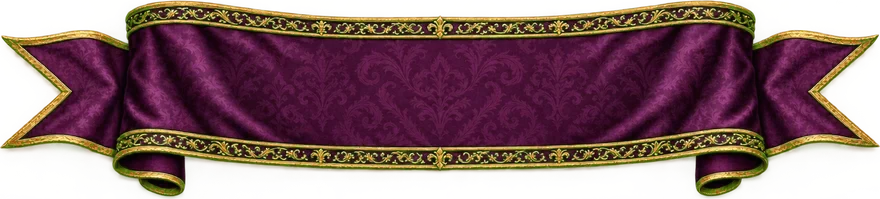
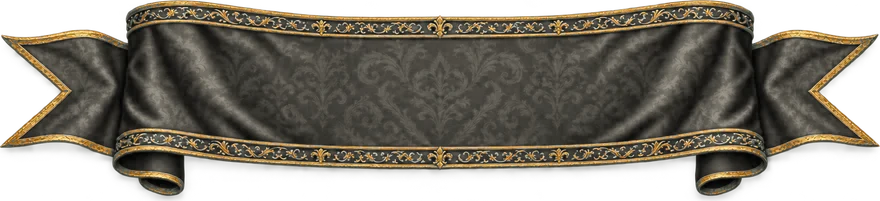
Faction colours in the interface: turquoise Tides rings, steel-grey Iron Clan ribbon, ribbons and primary buttons follow the faction at the screen

diff --git a/src/ui/styles.css b/src/ui/styles.css
@@ -84,6 +84,18 @@ html[data-faction='tides'] .gf::after { background: url('/assets/ui/corner_tides
 .rib.sands { --rib-img: url('/assets/ui/wstazka_sands.webp'); }
 .rib.swarm { --rib-img: url('/assets/ui/wstazka_swarm.webp'); }
 .rib.tides { --rib-img: url('/assets/ui/wstazka_tides.webp'); }
+/* A ribbon without a side: green, and in a game the colour of the faction at the screen. */
+.rib.auto { --rib-img: url('/assets/ui/wstazka_g.webp'); }
+html[data-faction='dawn'] .rib.auto { --rib-img: url('/assets/ui/wstazka_g.webp'); }
+html[data-faction='horde'] .rib.auto { --rib-img: url('/assets/ui/wstazka_r.webp'); }
+html[data-faction='frost'] .rib.auto { --rib-img: url('/assets/ui/wstazka_b.webp'); }
+html[data-faction='undead'] .rib.auto { --rib-img: url('/assets/ui/wstazka_p.webp'); }
+html[data-faction='herds'] .rib.auto { --rib-img: url('/assets/ui/wstazka_herds.webp'); }
+html[data-faction='clans'] .rib.auto { --rib-img: url('/assets/ui/wstazka_clans.webp'); }
+html[data-faction='free'] .rib.auto { --rib-img: url('/assets/ui/wstazka_free.webp'); }
+html[data-faction='sands'] .rib.auto { --rib-img: url('/assets/ui/wstazka_sands.webp'); }
+html[data-faction='swarm'] .rib.auto { --rib-img: url('/assets/ui/wstazka_swarm.webp'); }
+html[data-faction='tides'] .rib.auto { --rib-img: url('/assets/ui/wstazka_tides.webp'); }
 .rib-text { margin-top: -6px; padding: 0 6px; font-weight: 700; font-size: 20px; color: var(--cream); text-shadow: 0 2px 0 rgba(0, 0, 0, 0.6), 0 0 6px rgba(0, 0, 0, 0.5); white-space: nowrap; overflow: hidden; text-overflow: ellipsis; max-width: 100%; }
 .rib-text.long { font-size: 17px; }
 
@@ -128,6 +140,17 @@ html[data-faction='tides'] .gf::after { background: url('/assets/ui/corner_tides
 }
 .prim.r { background-image: url('/assets/ui/cloth_r.jpg'); }
 .prim.b { background-image: url('/assets/ui/cloth_b.jpg'); }
+/* In a game the primary buttons and the ribbons without a side of their own take the colour of the faction at the screen (html[data-faction], App.tsx). */
+html[data-faction='dawn'] .prim:not(.r):not(.b) { background-image: url('/assets/ui/cloth_g.jpg'); }
+html[data-faction='horde'] .prim:not(.r):not(.b) { background-image: url('/assets/ui/cloth_r.jpg'); }
+html[data-faction='frost'] .prim:not(.r):not(.b) { background-image: url('/assets/ui/cloth_b.jpg'); }
+html[data-faction='undead'] .prim:not(.r):not(.b) { background-image: url('/assets/ui/cloth_undead.jpg'); }
+html[data-faction='herds'] .prim:not(.r):not(.b) { background-image: url('/assets/ui/cloth_herds.jpg'); }
+html[data-faction='clans'] .prim:not(.r):not(.b) { background-image: url('/assets/ui/cloth_clans.jpg'); }
+html[data-faction='free'] .prim:not(.r):not(.b) { background-image: url('/assets/ui/cloth_free.jpg'); }
+html[data-faction='sands'] .prim:not(.r):not(.b) { background-image: url('/assets/ui/cloth_sands.jpg'); }
+html[data-faction='swarm'] .prim:not(.r):not(.b) { background-image: url('/assets/ui/cloth_swarm.jpg'); }
+html[data-faction='tides'] .prim:not(.r):not(.b) { background-image: url('/assets/ui/cloth_tides.jpg'); }
 .plate.btn { font-weight: 700; color: var(--ink); }
 .plate.btn.on { box-shadow: 0 0 0 2px #9ee4ff, 0 0 12px 3px rgba(158, 228, 255, 0.6), inset 0 0 16px rgba(120, 80, 20, 0.35); }
 /* Button sizes repeated across screens. */

diff --git a/src/ui/common.tsx b/src/ui/common.tsx
@@ -75,7 +75,7 @@ export const FACTION_RIBBON: Record<FactionId, string> = {
 };
 /** The ring round a portrait that belongs to a faction (the hero pickers of the setup screens): the colour of the faction, whatever seat it sits in. */
 export const FACTION_RING: Record<FactionId, string> = {
-  dawn: '#2C7048', horde: '#9A2226', herds: '#B8731E', undead: '#6A3E98', clans: '#8B8478', frost: '#3E8FB8', free: '#6E4B2E', sands: '#C79A1E', swarm: '#2A8A80', tides: '#D8695A',
+  dawn: '#2C7048', horde: '#9A2226', herds: '#B8731E', undead: '#6A3E98', clans: '#8B8478', frost: '#3E8FB8', free: '#6E4B2E', sands: '#C79A1E', swarm: '#2A8A80', tides: '#2BB3C0',
 };
 /** The ribbon (or ring) key of a team seat: the faction that sits there, not the seat itself (a Covenant player in the second seat does not get the Horde's red). */
 export const teamFaction = (state: unknown, team: Side | FactionId | 'draw' | null | undefined): Side | FactionId => (!team || team === 'draw' || team === 'neutral' ? 'neutral' : raceOf(state, team as TeamId));
@@ -138,8 +138,9 @@ export function Frame(props: {
 }
 
 /** Heraldic ribbon: a painted silk band with gold embroidery (Scenario), one colour per faction (green Przymierze, red Horda, blue neutral, purple for the next ones). */
-export function Ribbon({ side = 'dawn', children, style }: { side?: Side | FactionId; children: ReactNode; style?: CSSProperties }) {
-  const cls = side in FACTION_RIBBON ? FACTION_RIBBON[side as FactionId] : SIDE_RIBBON[side as Side];
+export function Ribbon({ side, children, style }: { side?: Side | FactionId; children: ReactNode; style?: CSSProperties }) {
+  // Without a side the ribbon follows the faction at the screen (css `.rib.auto`).
+  const cls = side === undefined ? 'auto' : side in FACTION_RIBBON ? FACTION_RIBBON[side as FactionId] : SIDE_RIBBON[side as Side];
   return (
     <div className={`rib ${cls}`} style={style}>
       <span className={`rib-text ${typeof children === 'string' && children.length > 16 ? 'long' : ''}`}>{children}</span>

diff --git a/src/i18n/en/changelog.ts b/src/i18n/en/changelog.ts
@@ -4,6 +4,8 @@ import { register } from '../translate';
 
 // In preparation
 register({
+  "Kolory frakcji w interfejsie: obwódki portretów Bractwa Przypływu są turkusowe (były łososiowe), wstęga Żelaznego Klanu jest stalowoszara (była fioletowa), a w grze wstęgi okien („Znaleziono skarb!”, skrzynia, nowy poziom, dziennik) i główne przyciski („Zakończ turę”, „Do ekwipunku”…) mają kolor frakcji gracza zamiast zawsze zielonego.":
+    "Faction colours in the interface: the portrait rings of the Brotherhood of the Tide are turquoise (they were salmon), the Iron Clan ribbon is steel grey (it was purple), and in a game the ribbons of windows (\"Treasure found!\", the chest, level-up, the log) and the main buttons (\"End turn\", \"To inventory\"…) take the colour of the player's faction instead of always green.",
   "Sefiran Plamisty na arenie jest większy: wąż był o połowę mniejszy od innych bohaterów i ginął na polu.":
     "Sefiran the Spotted is bigger on the arena: the snake was half the size of the other heroes and got lost on its hex.",
   "Wszystkie 19 postaci Żelaznego Klanu mają animowane sprite'y (stanie, chód, atak, śmierć, trafienie): Tan Żelaznobrody, Matka Run, Mosiężny Pająk, Niedźwiedź w Zbroi, Armata Klanów, Kolos Kuźni i pozostałe":

diff --git a/scripts/assets/cloth_tints.py b/scripts/assets/cloth_tints.py
@@ -1,0 +1,22 @@
+"""Paints the cloth of the primary buttons (`.prim`, ui/cloth_<faction>.jpg) for the factions that have none: the cloth of an original (cloth_g/r/b) turned to the hue
+of the faction, the same numbers as the ribbons (scripts/assets/ribbon_tints.py). Usage: python3 scripts/assets/cloth_tints.py"""
+import colorsys
+from PIL import Image
+
+D = 'public/assets/ui'
+# faction: (source cloth, target hue in degrees, saturation factor, value factor)
+TINTS = {'herds': ('r', 24, 1.0, 1.05), 'sands': ('r', 46, 0.9, 1.15), 'free': ('r', 20, 0.55, 0.75), 'swarm': ('g', 172, 1.0, 1.0), 'tides': ('b', 192, 1.0, 1.05),
+         'clans': ('r', 40, 0.14, 0.82), 'undead': ('b', 275, 0.95, 0.9)}
+SRC_HUE = {'g': 145, 'r': 355, 'b': 218}
+for fac, (src, hue, sat, val) in TINTS.items():
+    im = Image.open(f'{D}/cloth_{src}.jpg').convert('RGB')
+    out = []
+    for r, g, b in im.getdata():
+        h, s_, v = colorsys.rgb_to_hsv(r / 255, g / 255, b / 255)
+        h = ((h * 360 + hue - SRC_HUE[src]) % 360) / 360
+        r, g, b = (round(c * 255) for c in colorsys.hsv_to_rgb(h, min(1, s_ * sat), min(1, v * val)))
+        out.append((r, g, b))
+    t = Image.new('RGB', im.size)
+    t.putdata(out)
+    t.save(f'{D}/cloth_{fac}.jpg', quality=90)
+    print(fac, src)

diff --git a/scripts/assets/ribbon_tints.py b/scripts/assets/ribbon_tints.py
@@ -5,7 +5,7 @@ from PIL import Image
 
 D = 'public/assets/ui'
 # faction: (source ribbon, target hue of the cloth in degrees, saturation factor, value factor)
-TINTS = {'herds': ('r', 24, 1.0, 1.05), 'sands': ('r', 46, 0.9, 1.15), 'free': ('r', 20, 0.55, 0.75), 'swarm': ('g', 172, 1.0, 1.0), 'tides': ('b', 192, 1.0, 1.05), 'clans': ('p', 322, 1.0, 1.0)}
+TINTS = {'herds': ('r', 24, 1.0, 1.05), 'sands': ('r', 46, 0.9, 1.15), 'free': ('r', 20, 0.55, 0.75), 'swarm': ('g', 172, 1.0, 1.0), 'tides': ('b', 192, 1.0, 1.05), 'clans': ('r', 40, 0.14, 0.82)}
 
 for fac, (src, hue, sat, val) in TINTS.items():
     im = Image.open(f'{D}/wstazka_{src}.webp').convert('RGBA')

diff --git a/CHANGELOG.md b/CHANGELOG.md
@@ -6,6 +6,7 @@ Każdy wpis to jeden commit, a skrót commita stoi w nawiasie na końcu wpisu (c
 
 ## W przygotowaniu
 
+- Kolory frakcji w interfejsie: obwódki portretów Bractwa Przypływu są turkusowe (były łososiowe), wstęga Żelaznego Klanu jest stalowoszara (była fioletowa), a w grze wstęgi okien („Znaleziono skarb!”, skrzynia, nowy poziom, dziennik) i główne przyciski („Zakończ turę”, „Do ekwipunku”…) mają kolor frakcji gracza zamiast zawsze zielonego.
 - Sefiran Plamisty na arenie jest większy: wąż był o połowę mniejszy od innych bohaterów i ginął na polu.
 - Wszystkie 19 postaci Żelaznego Klanu mają animowane sprite'y (stanie, chód, atak, śmierć, trafienie): Tan Żelaznobrody, Matka Run, Mosiężny Pająk, Niedźwiedź w Zbroi, Armata Klanów, Kolos Kuźni i pozostałe
 - Żelazny Klan ma własną mapę i arenę: górską halę zamiast łąki, własny rewers kafli, twierdzę i skarbiec, kafle i obiekty w klimacie kamiennej twierdzy (kapliczka przodków, kopalnie, studnia, skrzynia, młyn), arenę na górskiej przełęczy z siedmioma rodzajami przeszkód i własny kamienny mur Fortyfikacji Kolosa
